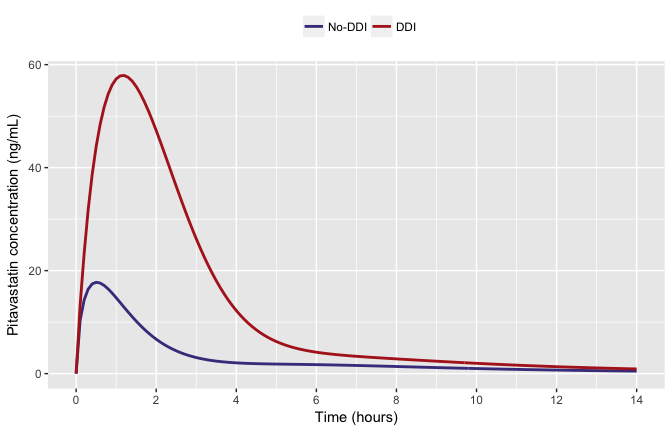
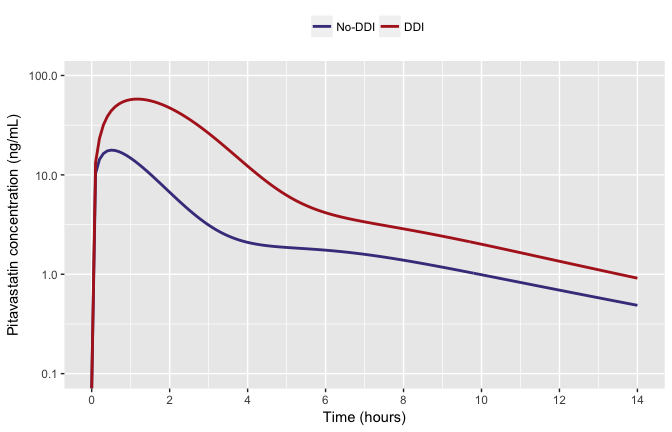
re-label axes

diff --git a/README.md b/README.md
@@ -108,9 +108,6 @@ Simulate the DDI
 
 Plot (code not shown)
 
-    . Scale for 'y' is already present. Adding another scale for 'y', which
-    . will replace the existing scale.
-
 <img src="content/img/README-unnamed-chunk-9-1.png" style="display: block; margin: auto;" />
 
 <a name="erkiex"></a>
